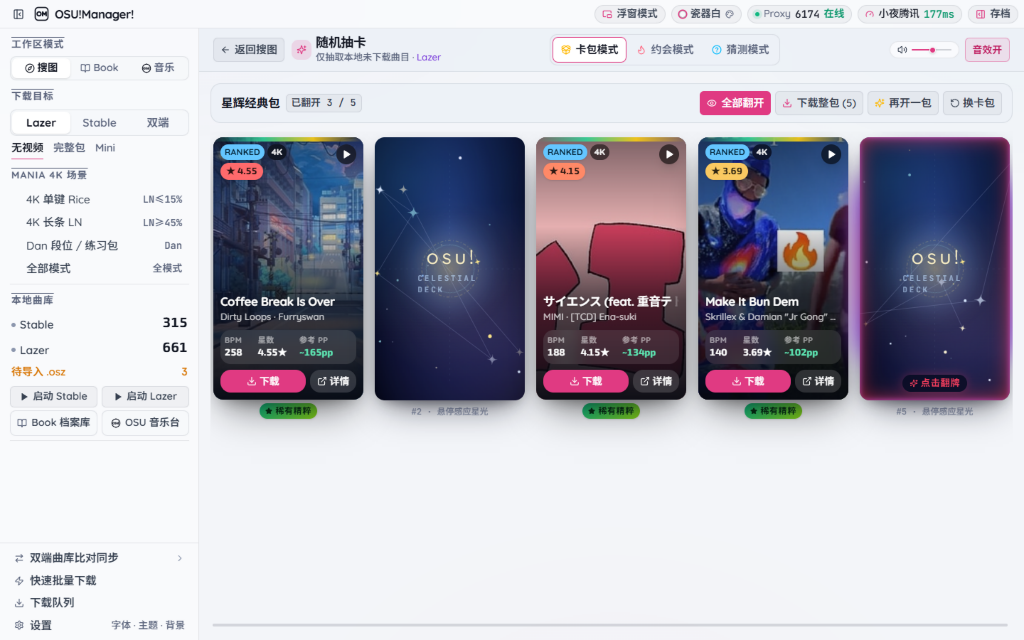
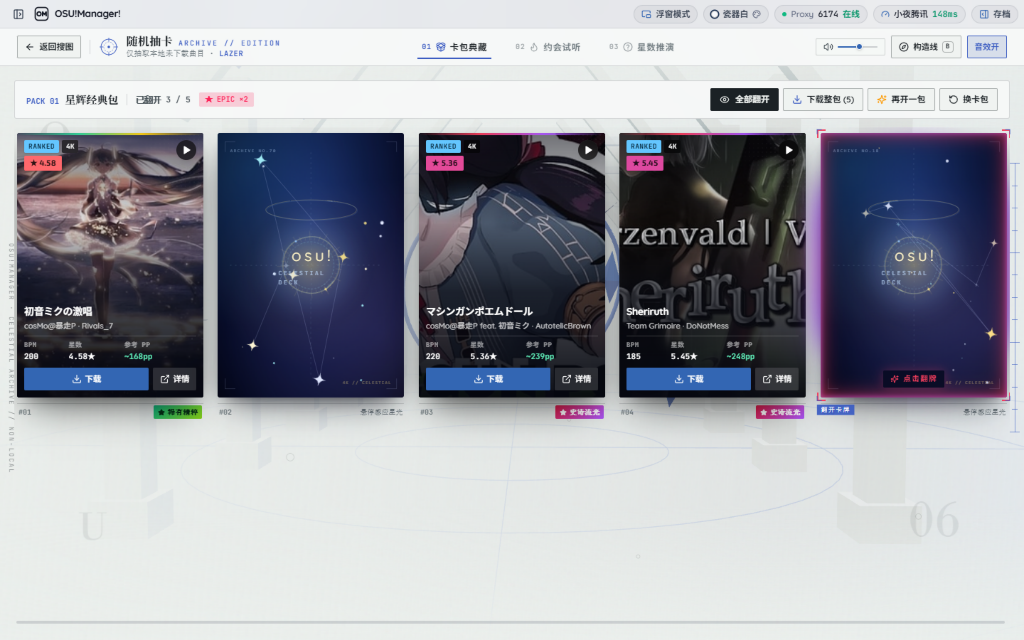
docs(gacha): update README, AGENT, CHANGELOG, DEVLOG, and v1.13.0 studio screenshots

diff --git a/README.md b/README.md
@@ -98,25 +98,34 @@
     <td width="50%" align="center" valign="top">
       <a href="docs/screenshots/10-gacha-pack.png"><img src="docs/screenshots/10-gacha-pack.png" alt="Random Card Draw — Pack Opening Mode with Paimon Starfield Back and Star Rating Glow" width="100%" /></a>
       <br />
-      <strong>10 · 随机抽卡（卡包模式：派蒙星空卡背 + 星数光谱悬停光晕 + 炉石风翻牌爆裂特效）</strong>
+      <strong>10 · 随机抽卡 · 01 卡包典藏（自动收起左侧栏 + 派蒙星图卡背 + 星数光谱悬停光晕）</strong>
       <br />
-      <sub>7 themed packs (<code>1–20</code> cards), tear-to-open pack, Paimon cloak back, SR hover aura &amp; tiered flip VFX</sub>
+      <sub>Auto-collapsed sidebar, <code>1–20</code> custom cards, Paimon double-inked astrolabe back, SR aura &amp; blade flip VFX</sub>
     </td>
   </tr>
   <tr>
     <td width="50%" align="center" valign="top">
-      <a href="docs/screenshots/11-gacha-dating.png"><img src="docs/screenshots/11-gacha-dating.png" alt="Random Card Draw — Dating Swipe Mode with Auto Audio Preview and Liked Tray" width="100%" /></a>
+      <a href="docs/screenshots/11-gacha-dating.png"><img src="docs/screenshots/11-gacha-dating.png" alt="Random Card Draw — Dating Swipe Mode with Drafting Compass and Auto Audio Preview" width="100%" /></a>
       <br />
-      <strong>11 · 随机抽卡（约会模式：左右滑动挑选非本地谱面 + 切卡自动试听 + 心仪批量下载）</strong>
+      <strong>11 · 随机抽卡 · 02 约会试听（手绘草图罗盘背景 + 左右划卡 + 切牌自动试听）</strong>
       <br />
-      <sub>Tinder-style drag/swipe stack, Undo, auto-playing audio preview &amp; Liked songs batch download tray</sub>
+      <sub>Live SVG drafting compass backdrop, Tinder-style drag/swipe, Undo, auto-play preview &amp; Liked Archive folio</sub>
     </td>
     <td width="50%" align="center" valign="top">
-      <a href="docs/screenshots/12-gacha-guess.png"><img src="docs/screenshots/12-gacha-guess.png" alt="Random Card Draw — Guess Star Rating Mode from PP Scenario Clues" width="100%" /></a>
+      <a href="docs/screenshots/12-gacha-guess.png"><img src="docs/screenshots/12-gacha-guess.png" alt="Random Card Draw — Obsidian Dark English Guess SR Mode with Optical Calibration Ruler" width="100%" /></a>
       <br />
-      <strong>12 · 随机抽卡（猜测模式：依据情景 PP、BPM 与封面推测隐藏真实星数）</strong>
+      <strong>12 · 随机抽卡 · 03 星数推演（暗色英文模式 · 光学刻度尺与误差对照标尺）</strong>
       <br />
-      <sub>Masked <code>?.??★</code> Star Rating puzzle with randomized PP scenarios, spectrum slider &amp; 0–1000 scoring</sub>
+      <sub>Obsidian Dark + English UI: crop-marked specimen, PP scenario clue, optical SR calibration &amp; delta ruler</sub>
+    </td>
+  </tr>
+  <tr>
+    <td colspan="2" align="center" valign="top">
+      <a href="docs/screenshots/13-gacha-altar.png"><img src="docs/screenshots/13-gacha-altar.png" alt="Random Card Draw — Editorial Graphic Plate Sealed Pack Altar inspired by the-masses-travels" width="76%" /></a>
+      <br />
+      <strong>13 · 随机抽卡 · 封印祭坛与 Three.js 圣堂建筑舞台（参考 Funkierry/the-masses-travels）</strong>
+      <br />
+      <sub>Three.js procedural sanctum, hand-drawn overshooting construction plate, <code>B</code> Blueprint wireframe mode &amp; foil tear pack</sub>
     </td>
   </tr>
 </table>
@@ -173,12 +182,13 @@
    - 覆盖搜图选歌、详情/PP 计算器、Mania 预览器、3D Book 档案库、OSU! 音乐台、游戏内浮窗、Electron 系统托盘菜单与后端错误/镜像描述的全量中英双语体验。
    - 可在「设置 → 分区 3」或新手引导右上角切换 `简体中文` / `English`（切换立即预览，点保存持久化至 `config.json`，取消/Esc 自动回滚）；右上角测速状态与提示文案严格跟随用户实际配置的 `proxyPort`（不再固定写死 `6174`）与直连/代理模式动态显示。
 
-10. **随机抽卡工作室（约会模式 / 猜测模式 / 炉石风卡包开启）**
-   - 在浏览模式 `Lazer` 按钮右侧提供「随机抽卡」入口；仅抽取本地未拥有的谱面（严格排除 Stable 与 Lazer 本地已存曲目）。
-   - 无边框矩形卡面：正面展示铺满封面、曲名/作者、BPM、官方光谱星数、`~XXXpp` 预估 PP、一键下载与详情弹窗；背面采用原神派蒙星空斗篷动态效果与极简细体 `osu!` 标识。
-   - **约会模式**：支持左滑跳过 / 右滑收藏拖拽手势、键盘快捷键、撤回上一步、切卡自动播放试听，以及右侧心仪列表一键/批量下载。
-   - **猜测模式**：隐藏真实星数（`?.??★`），依据随机情景参数计算的 PP 与封面 / BPM / LN% / OD 线索推测星数，按指数误差评分（`0–1000` / `SS–D` 评级）并持久化最高分。
-   - **卡包模式**：提供 7 种卡包（含「当前筛选」自定义包），支持 `1–20` 张自定义抽卡数（默认 `5`）；支持拖拽撕开顶部封条或点击开包，发牌后悬停卡背亮起对应真实星数光谱光晕，翻牌触发炉石传说风格分阶粒子与光线爆发特效及 Web Audio 合成音效。
+10. **随机抽卡工作室（自动收起主侧栏 · 参考 [`Funkierry/the-masses-travels`](https://github.com/Funkierry/the-masses-travels) 美术重构）**
+   - 在浏览模式 `Lazer` 按钮右侧提供「随机抽卡」入口，打开后**自动收起主左侧栏**呈现全宽展台；仅抽取本地未拥有的谱面（严格排除 Stable 与 Lazer 本地已存曲目）。
+   - **Three.js 圣堂建筑舞台与手绘平面图版**：内置可随明暗主题与 3 大模式镜头切换的程序化 Three.js 柱廊/星仪舞台、手绘过头笔触星环与套印错位双线（`gachaSketch`）、四角 Reticle 锁定准星、字形解码动效、定格构造脉冲转场，以及按 `B` 键或顶栏按钮实时切换的 **构造线 (Blueprint)** 线框视图。
+   - 无边框 3px 收藏级矩形卡面：正面展示铺满封面、曲名/作者、BPM、官方光谱星数、`~XXXpp` 预估 PP、一键下载与详情弹窗；背面采用原神派蒙星空斗篷动态效果、双线手绘星盘与极简细体 `osu!` 标识。
+   - **01 卡包典藏**：7 种卡包 + 3 色样条摘要与 `1–20` 自定义抽卡数（默认 `5`）；拖拽撕开封条或点击开包，悬停卡背亮起对应真实星数光谱光晕与裁切角框，翻牌触发炉石风星芒与建筑光刃爆裂特效及 Web Audio 合成音效。
+   - **02 约会试听**：后台搭载随拖拽角度联动的草图罗盘，支持左右划卡、键盘快捷键、撤回、切卡自动播放试听，以及右侧心仪列表一键/批量下载。
+   - **03 星数推演**：裁切框标本展台遮罩真实星数（`?.??★`），依据情景 PP 与光学星数刻度尺猜星数，揭晓后绘制预测/真实差值标尺并按指数误差评分（`0–1000` / `SS–D`）持久化最高分。
 
 ### 快速开始
 
@@ -254,12 +264,13 @@ No osu! login or session cookie is required. It brings together multi-mirror bea
 - **Full ZH / EN Bilingual Switcher & Dynamic Proxy Diagnostics**
   - Complete Simplified Chinese & English localization across Browse, Beatmap Detail & PP Calculator, Mania Previewer, 3D Book Archive, OSU! AUDIO Music Station, Acrylic Overlay, Electron Tray/Hotkeys, and backend mirror/status responses.
   - Switch live via **Settings → Section 3 (`简体中文 | English`)** or the onboarding header pill (persisted in `config.json`, safely rolls back on Cancel/Esc). Top-bar latency checks and toast notifications dynamically reflect your configured `proxyPort` or `Direct` mode.
-- **Random Card Draw Studio (`v1.12.0` — Dating / Guess SR / Booster Pack Modes)**
-  - Accessible directly beside the `Lazer` view button in Browse mode; exclusively draws unowned beatmapsets not present in either Stable or Lazer local libraries.
-  - **Borderless Rectangular Cards**: Front displays full-bleed cover art, title/artist, BPM, official-spectrum Star Rating, estimated `~XXXpp`, audio preview, download, and Detail modal; Back renders an animated Paimon-cloak cosmic starfield with a minimalist thin-stroke `osu!` emblem.
-  - **Dating Mode**: Drag/swipe left or right (plus buttons & hotkeys), Undo, **auto-playing audio preview** per card, and a right-hand Liked tray with one-click & batch download.
-  - **Guess Mode**: Masks Star Rating (`?.??★`), provides a randomized PP scenario clue alongside cover/BPM/LN%/OD, scores guesses (`0–1000`, `SS–D` grade), and persists your personal best score.
-  - **Pack Mode**: 7 themed booster packs (including `Current Filter`) with customizable `1–20` card count (default `5`), interactive tear-to-open metallic foil pack, face-down hover aura glowing in each card's true Star Rating color, and Hearthstone-style tiered flip burst VFX + optional Web Audio chimes.
+- **Random Card Draw Studio (`v1.13.0` — Redesigned after [`Funkierry/the-masses-travels`](https://github.com/Funkierry/the-masses-travels))**
+  - Accessible directly beside the `Lazer` view button in Browse mode; **automatically collapses the left sidebar** on launch and exclusively draws unowned beatmapsets not present in Stable or Lazer local libraries.
+  - **Architectural & Graphic Engine**: Features a procedural **Three.js Sanctum stage** (`GachaSanctumWorld`), dual mineral-paper Light / nocturnal-obsidian Dark palettes, overshooting hand-drawn SVG rings & misregistered double-ink lines (`gachaSketch`), hovering Reticle corner brackets, scramble title decoding, stop-motion burst transitions, and a live **`B` Blueprint wireframe mode**.
+  - **Borderless Collector Cards**: Sharp borderless cover front (`title`, `artist/mapper`, `BPM`, official-spectrum `SR`, `~XXXpp`, audio preview, Download, Detail modal) paired with an animated Paimon-cloak cosmic starfield & hand-drawn astrolabe `osu!` back.
+  - **01 Pack Opening**: 7 themed packs with editorial color swatches, `1–20` custom count (default `5`), multi-layered Graphic Plate altar, tear-to-open foil pack, Star-Rating hover aura + crop brackets, and Hearthstone + light-blade flip burst VFX with optional Web Audio SFX.
+  - **02 Dating Swipe**: Live SVG drafting compass backdrop, drag/swipe or hotkeys (`←/→/Z/Space`), **auto-playing preview audio**, and Liked Archive batch download tray.
+  - **03 Guess SR**: Crop-framed masked specimen (`?.??★`), randomized PP scenario clue, graduated optical SR calibration slider, `0–1000` (`SS–D`) scoring, and visual guess-vs-actual delta ruler.
 
 ### Quick Start
 
@@ -311,7 +322,7 @@ OSU-Manager-/
 ├── README.md                 # 中英文双语说明文档 / Bilingual README
 ├── docs/
 │   ├── DEVLOG.md             # 按会话记录的开发日志 / Session-by-session devlog
-│   └── screenshots/          # README 展示截图 / UI showcase screenshots (01–12)
+│   └── screenshots/          # README 展示截图 / UI showcase screenshots (01–13)
 ├── build/                    # OM 矢量与多分辨率应用图标 (icon.svg / icon.png / icon.ico)
 ├── scripts/                  # 打包后 PE 图标注入 (apply-exe-icon.mjs) 与 GitHub Release 发布脚本 (publish-github-release.mjs)
 ├── electron/                 # Electron 主进程与 preload 桥接

diff --git a/AGENT.md b/AGENT.md
@@ -79,7 +79,7 @@
 | `src/main.tsx` | 引入离线 `@fontsource` Lazer 风格四字体（`Quicksand`, `Outfit`, `Exo 2`, `Noto Sans SC` 400/500/600/700 + `JetBrains Mono`），按 `?mode=overlay` 路由挂载 `OverlayApp` 或 `App` |
 | `src/index.css` | 8 套主题 CSS Token（默认 `:root[data-theme="light"]` 瓷器白）、Tailwind `@theme inline` 固定 `--spacing: 4px` 与 `--ui-font-scale`（默认 `1.2`）、`.song-list-row` / `.modal-surface` GPU 合成隔离规则、Lazer 字体工具类、`.segmented-compact`/`.segmented-auto`、卡片金框、Lazer 轮盘动效样式 |
 | `src/i18n.tsx` | 前端轻量零外部依赖双语运行时（`I18nProvider`, `useI18n`, `tx(zh, en, lang?)`, `setGlobalLang`），通过 `osu_mgr_lang` localStorage 与 `<html lang>` 实现主窗口与浮窗实时同步切换 |
-| `src/App.tsx` | 主工作区状态中心（配置与 `language` 持久化同步、SSE 订阅、全窗双缓冲封面背景与主色调取色、侧栏/筛选折叠与进入音乐台自动收起主左侧栏、主题/视图模式持久化、Lazer 按钮旁「随机抽卡」入口与 `<GachaStudio>` 切换、动态代理端口测速 Toast、滚底自动加载、批量选择与快速批量弹窗调度、`useCallback` 稳定列表回调） |
+| `src/App.tsx` | 主工作区状态中心（配置与 `language` 持久化同步、SSE 订阅、全窗双缓冲封面背景与主色调取色、侧栏/筛选折叠与进入音乐台/随机抽卡时自动收起主左侧栏、主题/视图模式持久化、Lazer 按钮旁「随机抽卡」入口与 `<GachaStudio>` 切换、动态代理端口测速 Toast、滚底自动加载、批量选择与快速批量弹窗调度、`useCallback` 稳定列表回调） |
 | `src/constants.ts` | 8 套主题元信息 (`THEME_OPTIONS`)、10 组强调色预设、`DEFAULT_FONT_SCALE = 1.2`、双语工厂函数（`getViewModeOptions`, `getThemeOptions`, `getWorkflowPresets`, `getSortFields`, `getTargetMeta`, `getVariantOptions` 等）、官网光谱星数色阶 `getStarColor()` / `getStarSpectrum()`、统一双语 `getLnCategory()` |
 | `src/utils/themeColor.ts` | Canvas 24-bin 色相主色调提取器 (`extractDominantColor`) 与动态强调色 CSS 变量推导/应用 (`deriveAccentVariables`, `applyAccentVariables`, `clearAccentVariables`) |
 | `src/utils/pp.ts` | Ranked PP 准度制计算引擎（含 35 组 `NM / DT / HT / 变速` 情景预设与双语主/副展示文案、`localStorage` 自定义情景持久化、`calculateBeatmapPp`, `getQuickPpSummary`, `getBeatmapsetPpBadge`, `extractPpScenarioFromFilters`, `formatPpScenarioShort`, `isRankedForPp`） |
@@ -125,16 +125,20 @@
 | `src/components/DownloadDrawer.tsx` | 下载任务队列（含完成态预览/再加载按钮）与 Lazer 待导入队列批量导入抽屉 |
 | `src/components/FastBatchModal.tsx` | 极简纯文本「快速批量下载」工作台（目标数量 1–500、IPv6/直连分流、多镜像高并发与实时传输遥测） |
 | `src/components/LibrarySyncModal.tsx` | 双端曲库比对与 Stable→Lazer 零流量同步弹窗 |
-| `src/components/SettingsModal.tsx` | 客户端路径浏览、动态代理/IPv6 网络协议与镜像测速、`简体中文 / English` 界面语言切换（`segmented-auto` 防截断，即时预览/取消回滚/保存持久化）、8 主题/10 预设+自由取色强调色、界面字体大小缩放 (`85%–125%`，默认 `120%`)、自定义背景图与透明度 (`4%–100%`，默认 `75%`)、动态开关、浮窗热键、可选官方 Cookie 与「关于与帮助」（`v1.12.0` 版本号、GitHub 开源地址、重新观看新手引导）弹窗 |
+| `src/components/SettingsModal.tsx` | 客户端路径浏览、动态代理/IPv6 网络协议与镜像测速、`简体中文 / English` 界面语言切换（`segmented-auto` 防截断，即时预览/取消回滚/保存持久化）、8 主题/10 预设+自由取色强调色、界面字体大小缩放 (`85%–125%`，默认 `120%`)、自定义背景图与透明度 (`4%–100%`，默认 `75%`)、动态开关、浮窗热键、可选官方 Cookie 与「关于与帮助」（`v1.13.0` 版本号、GitHub 开源地址、重新观看新手引导）弹窗 |
 | `src/components/OnboardingModal.tsx` | 首次安装 6 步交互式环境配置与新手引导向导（右上角含 `中文 / EN` 快速切换、调用 `/api/config/detect-env` 探测多盘符客户端路径与本机代理端口，支持代理模式/端口预设、下载策略、实时主题/字号预览、配置摘要保存及防输入框箭头误触） |
 | `src/components/SelectField.tsx` | 统一下拉封装（支持 `<optgroup>` 嵌套匹配，解决 Chromium 原生箭头重叠问题） |
-| `src/components/gacha/GachaStudio.tsx` | 随机抽卡工作室总控界面（约会 / 猜测 / 卡包 3 模式切换、共享音频试听管理、顶部返回与卡包筛选衔接） |
-| `src/components/gacha/GachaPackMode.tsx` | 卡包开启模式（7 种主题卡包、`1–20` 自定义抽卡数、金属箔可拖拽撕开卡包、`Reveal All` / `Download All` 与炉石风爆裂粒子舞台） |
-| `src/components/gacha/GachaDatingMode.tsx` | 约会滑卡模式（Tinder 风拖拽与快捷键左右滑卡、撤回、切卡自动试听、右侧心仪列表批量下载） |
-| `src/components/gacha/GachaGuessMode.tsx` | 猜星数模式（Ranked 非本地曲目抽取、`?.??★` 隐藏星数、随机 PP 情景线索、光谱滑块、指数评分与最高分持久化） |
-| `src/components/gacha/BeatmapGachaCard.tsx` | 无边框正反 3D 矩形谱面卡（正面封面/BPM/星数/PP/试听/下载/详情按钮；背面衔接派蒙星空与悬停真实星数光晕） |
-| `src/components/gacha/PaimonStarfieldBack.tsx` | 纯 GPU 合成派蒙星空斗篷卡背（漂移星云、闪烁四角星与极简细体 `osu!` / `CELESTIAL DECK` 标识） |
-| `src/components/gacha/gachaUtils.ts` | 卡包配置、星数光谱光晕分级、代表难度/PP 摘要、猜星情景生成与评分公式工具 |
+| `src/components/gacha/gachaSketch.ts` | 参考 `Funkierry/the-masses-travels` 移植的确定性手绘 SVG 几何原语（过头抖动星环 `ring`、拱曲延展标尺 `rule`、毛笔 `brush`、光刃 `blade`、裁切角 `crops` 与星座连接） |
+| `src/components/gacha/GachaSanctumWorld.ts` | Three.js 程序化圣堂建筑舞台控制器（对称拱柱廊、玫瑰窗、悬浮旋转星仪、光刃碎片与飞羽、3 模式镜头运镜、`Blueprint` 线框模式与开包/高星炸裂脉冲） |
+| `src/components/gacha/GachaAtmosphere.tsx` | `the-masses-travels` 全屏氛围层（Three.js 挂载、矿石纸感/夜色面纱、纸张噪点、构造网格、指针连线点阵、左侧竖排注记与右侧标尺、四角 Reticle 框、3 帧定格构造脉冲与 `<ScrambleText>` 解码） |
+| `src/components/gacha/GachaPackPlate.tsx` | 封印祭坛多层视差手绘图版（半调网点圆盘、倾斜光环、圆环铭文、`Y1–Y6` 标尺、迷你拼贴 UI 框与构造线尺寸标注） |
+| `src/components/gacha/GachaStudio.tsx` | 随机抽卡工作室总控界面（`01 卡包典藏 / 02 约会试听 / 03 星数推演` 章节切换、`B` 构造线热键、共享音频试听控制与 Three.js/定格爆发调度） |
+| `src/components/gacha/GachaPackMode.tsx` | 卡包典藏模式（`SERIES 01–07` 档案摘要+三色样条、`1–20` 抽卡数刻度、`GachaPackPlate` 撕包祭坛、`Reveal All` / `Download All` 与炉石+光刃爆裂网格） |
+| `src/components/gacha/GachaDatingMode.tsx` | 约会试听模式（实时手绘旋转罗盘与矢量角度读数、左右滑卡与快捷键、撤回、切卡自动试听、右侧心仪档案库批量下载） |
+| `src/components/gacha/GachaGuessMode.tsx` | 星数推演模式（裁切框标本、Ranked 情景 PP 线索、光学光谱校准尺、指数评分、`ScrambleText` 得分、预测/真实误差对比标尺与最高分持久化） |
+| `src/components/gacha/BeatmapGachaCard.tsx` | 无边框 `3px` 收藏级 3D 正反谱面卡（悬停卡背亮起真实星数光谱光晕与裁切角；翻牌触发炉石光环+星芒+旋转手绘光刃；正面封面/BPM/星数/PP/下载/详情） |
+| `src/components/gacha/PaimonStarfieldBack.tsx` | 派蒙星空斗篷卡背（纯 GPU 合成星云/闪烁星辰叠加 `gachaSketch` 双重套印手绘星盘与极简细体 `osu!` / `CELESTIAL DECK` 标识） |
+| `src/components/gacha/gachaUtils.ts` | 卡包配置（含三色 `swatches` 与 `editorialSub`）、星数光谱光晕分级、代表难度/PP 摘要、猜星情景生成与评分公式工具 |
 | `src/components/gacha/gachaSound.ts` | Web Audio API 合成开包撕裂、悬停律动、分阶翻牌爆裂、滑卡与猜星揭晓音效 |
 
 ---

diff --git a/docs/DEVLOG.md b/docs/DEVLOG.md
@@ -4,6 +4,33 @@
 
 ---
 
+## Session 23 — 打开随机抽卡自动收起左侧栏、参考 `Funkierry/the-masses-travels` 重构抽卡美术/UI/动效与视觉精修 (`v1.13.0`)
+
+- **日期**：2026-11-26
+- **对话 ID**：`09e49c4e-3701-4043-82c7-d9fba139a0f4`
+- **版本**：`v1.13.0`
+- **关联代码提交**：`f3de3c2`
+- **本次需求**：
+  1. 点开随机抽卡后主界面左侧栏自动收回，提供完整展示视野；
+  2. 参考 [`Funkierry/the-masses-travels`](https://github.com/Funkierry/the-masses-travels) 全面重构随机抽卡工作室的美术风格、UI 版式与交互动效，同时完整保留既有一切非本地抽取、三玩法与试听/下载能力。
+- **关键改动与视觉复核修复**：
+  1. **左侧栏与存档栏自动收起**（`src/App.tsx`）：
+     - `openGachaStudio` 内同步调用 `setSidebarCollapsed(true)` 与 `setArchiveRailCollapsed(true)` 并保存右侧栏折叠态，进入 `<GachaStudio>` 后立即全宽展开抽卡画布。
+  2. **Three.js 程序化圣堂舞台与手绘平面图版系统**（`src/components/gacha/gachaSketch.ts`, `GachaSanctumWorld.ts`, `GachaAtmosphere.tsx`, `GachaPackPlate.tsx`, `src/index.css`）：
+     - 基于 `three` 搭建支持明/暗主题切换、3 模式运镜与 `Blueprint (B)` 线框切换的程序化拱柱廊与悬浮星仪舞台，并与开包/高星炸裂脉冲联动；
+     - 移植确定性手绘 SVG 原语（过头抖动圆 `ring`、拱曲标尺 `rule`、毛笔笔触 `brush`、光刃 `blade`、裁切角 `crops`），串联 `GachaPackPlate` 多层视差图版、`PaimonStarfieldBack` 双重套印星盘、`BeatmapGachaCard` `3px` 无边框收藏卡片+悬停裁切角与旋转光刃爆裂特效，以及四角 Reticle 锁定框、`ScrambleText` 解码与 3 帧定格构造脉冲。
+  3. **三模式界面重塑与实机截图排查修复**（`GachaStudio.tsx`, `GachaPackMode.tsx`, `GachaDatingMode.tsx`, `GachaGuessMode.tsx`, `gachaUtils.ts`）：
+     - 实机截图目视核验中定位并根治了 3 项细节问题：
+       1. 暗色 (`Obsidian`) 模式下 `Next Card` 主按钮原继承 `--ga-ink`（浅白）导致与残留选中高亮叠加反白低对比——新增 `--ga-cta-*` 专属变量使深色模式固定渲染钴蓝 `#3a5bc2` 配纯白文字并为按钮统一设置 `user-select: none`；
+       2. `1280×720` 下左侧竖排注记发生折行——追加 `whitespace-nowrap` 锁定单行竖排；
+       3. 封印祭坛底部提示条轻微压住 `GachaPackPlate` 底沿——收敛图版最大高度与上移封包/定格提示条距，确保无任何遮挡。
+- **验证与本地打包记录**：
+  - `npm run typecheck && npm run build` 退出码 `0`（`vite built in 8.53s`）；TS AST 扫描 `src/components/gacha/` 12 个文件未本地化 UI 中文残留 `0`；
+  - 浏览器（`1440×900` & `1280×720`、瓷器白中文 & 曜石黑英文）实机复核：进入随机抽卡前后 `<aside>` 宽度从 `248px`/`280px` 自动收起至 `0px`；Three.js `<canvas>`、构造线 `B` 切换、约会音频 `HTTP 206` 自动试听、撤回、猜测校准对比标尺与深色 Cobalt 按钮对比度全部通过，控制台与网络失败请求均 `0`，保存 [10-gacha-pack.png](docs/screenshots/10-gacha-pack.png)、[11-gacha-dating.png](docs/screenshots/11-gacha-dating.png)、[12-gacha-guess.png](docs/screenshots/12-gacha-guess.png)、[13-gacha-altar.png](docs/screenshots/13-gacha-altar.png)；
+  - `npm run electron:pack` 生成 `release\win-unpacked\osu-manager.exe`（`249,975,808` 字节，`FileVersion=1.13.0`），并在隔离 `PORT=3729` + 临时目录通过启动与 `/api/gacha/draw` 冒烟（`Health 200 in 1.15s`, `POST /api/gacha/draw => 200 got=5 provider=osudirect nonLocalOnly=True`），清理全部临时文件与监听端口，确认 `data/config.json` 保持 `898` 字节完整。
+
+---
+
 ## Session 22 — 随机抽卡工作室（约会模式 / 猜测星数 / 派蒙星空与炉石风卡包）、双端非本地过滤及全链路验收 (`v1.12.0`)
 
 - **日期**：2026-11-26

diff --git a/CHANGELOG.md b/CHANGELOG.md
@@ -4,6 +4,17 @@ All notable changes to **OSU!Manager! (`osu-4k-dual-downloader`)** will be docum
 
 The format is based on [Keep a Changelog](https://keepachangelog.com/en/1.1.0/).
 
+## [1.13.0] - 2026-11-26
+
+### Added & Changed
+- **打开随机抽卡自动收起主界面左侧栏与存档栏**（`src/App.tsx`）：
+  - `openGachaStudio` 参照音乐台行为自动执行 `setSidebarCollapsed(true)` 与 `setArchiveRailCollapsed(true)` 并持久化，进入 `<GachaStudio>` 后立即释放全宽画廊展示舞台（仍保留顶栏手动展开控制）。
+- **参考 [`Funkierry/the-masses-travels`](https://github.com/Funkierry/the-masses-travels) 重构抽卡工作室美术、UI 与动效引擎**（`src/index.css`, `src/components/gacha/gachaSketch.ts`, `GachaSanctumWorld.ts`, `GachaAtmosphere.tsx`, `GachaPackPlate.tsx`, `GachaStudio.tsx`, `GachaPackMode.tsx`, `GachaDatingMode.tsx`, `GachaGuessMode.tsx`, `BeatmapGachaCard.tsx`, `PaimonStarfieldBack.tsx`, `gachaUtils.ts`）：
+  - **Atelier 视觉系统与 Three.js 圣堂舞台**：引入浅色矿石纸感（`#e8eceb` + 钴蓝 `#3a5bc2`）与深色玄石圣堂（`#090c14` + `#6c8eff` / 专有 `--ga-cta-*` 按钮变量）双一套 `.gacha-atelier` 令牌；`GachaSanctumWorld` 以 Three.js 程序化构建六组拱柱廊、玫瑰窗、悬浮旋转星仪、光刃碎片与飞羽，支持 3 模式镜头平滑切换、指针视差与高星/开包向外扩张脉冲；
+  - **手绘 SVG 原语与构造线 (`Blueprint`) 模式**：`gachaSketch.ts` 移植过头抖动星环 `ring`、拱曲标尺 `rule`、毛笔 `brush`、光刃 `blade` 与四角裁切框 `crops`；`GachaAtmosphere` 提供指针连线点阵、左侧竖排档案注记、右侧刻尺、非侵入式四角 Reticle 锁定框、`ScrambleText` 字符解码、3 帧定格构造爆发转场，以及 `B` 热键 / 顶栏 `构造线` 线框模式切换；
+  - **卡背与三大模式精修**：`PaimonStarfieldBack` 保留派蒙星空斗篷并叠加双重套印错位星盘；`BeatmapGachaCard` 保持 `border-0` 无边框并重塑为 `3px` 收藏卡片轮廓（悬停卡背亮起星数光谱光晕与裁切角框，翻牌叠加旋转手绘光刃与炉石风粒子）；卡包封印坛搭载多层视差 `GachaPackPlate` 图版与 `SERIES 01–07` 三色样条档案单，约会模式搭载随拖拽旋转的实时草图罗盘，猜测模式配备光学星数刻度尺与误差对照标尺。
+- 版本号更新至 `v1.13.0`（`package.json`, `src/constants.ts`, `AGENT.md`, `README.md`），并将 `docs/screenshots/10..13*.png` 更新为重构后 `1440×900` 实机截图（含新增 [13-gacha-altar.png](docs/screenshots/13-gacha-altar.png)）；复核修复深色模式 `.ga-solid-btn` 反白文本对比度、`1280×720` 左侧竖排注记换行与封印祭坛底部说明间距，并通过 `npm run typecheck && npm run build`、Browser 双主题双语/双分辨率零报错验收及 `npm run electron:pack`（`:3729` `osu-manager.exe` 冒烟 `Health 200` / `POST /api/gacha/draw => 200`）。
+
 ## [1.12.0] - 2026-11-26
 
 ### Added
